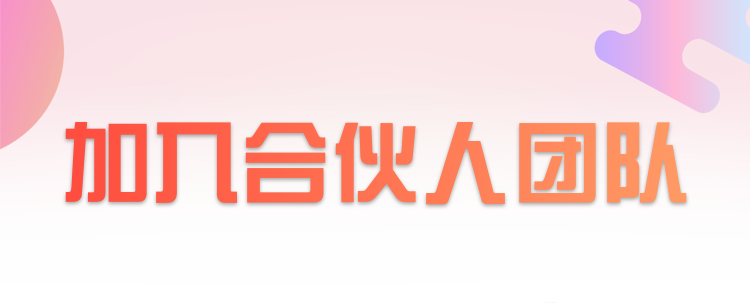
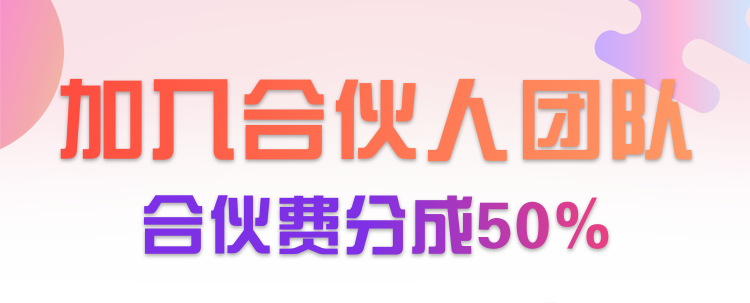
合伙人内容修改合伙费分成50%

Changed region(s): [[0.0613, 0.2376, 0.9507, 0.8614]]

diff --git a/zhixinchain-wap/find-invite-hehuoren.html b/zhixinchain-wap/find-invite-hehuoren.html
@@ -16,14 +16,17 @@
         <div class="component-find-index">
             <div class="yaoqing-c1" style=" display:block;background: url('public/images/find/yaoqing-4.png') center top no-repeat;background-size: 100% 100%;">
                 <div class="outer">
-                    <p class="p-money">
+                    <p style="padding-top: 1.35rem;font-size: 0.14rem;">(11月30日前)</p>
+                    <p class="p-money" style="padding-top: 0.05rem;">
                         立即加入合伙人团队，月入<span>2万元~10万元！</span>
                     </p>
                 </div>
             </div>
             <div class="yaoqing-c1" style="display: none; background: url('public/images/find/yaoqing-1.png') center top no-repeat;background-size: 100% 100%;">
+
                 <div class="outer">
-                    <p class="p-money">
+                    <p style="padding-top: 1.35rem;font-size: 0.14rem;">(11月30日前)</p>
+                    <p class="p-money" style="padding-top: 0.05rem;">
                         邀请好友加入健康保障，<span>获得合伙人收益</span>
                     </p>
                 </div>
@@ -31,7 +34,7 @@
             <div class="yaoqing-c2" >
                 <div style="display:none;">
                     <div class="outer">
-                        <p class="p-id">
+                        <p class="p-id" style="padding-top: 0.55rem;">
                             我的邀请码: <span>{{invite_id}}</span>
                         </p>
                     </div>
@@ -52,7 +55,7 @@
                         <!--</p>-->
                     <!--</div>-->
                     <div class="btn">
-                        <button class="btn-invite" style="width: 2.7rem; margin-top: 0.16rem;">成为个人合伙人</button>
+                        <button class="btn-invite" style="width: 2.7rem; margin-top: 0.55rem;">成为个人合伙人</button>
                     </div>
                 </div>
 
@@ -82,11 +85,11 @@
                 </div>
                 <div class="text-one">
 
-                    <p><strong>3：特权享受：</strong>享10万元半价囤币权。囤货期3个月内可享1~10倍卖出收益。</p>
+                    <p><strong>3：特权享受：</strong>享首次最高10万元半价囤币权。囤货期3个月内可享1~10倍卖出收益。</p>
                 </div>
                 <div class="text-one">
 
-                    <p><strong>4：加入条件：</strong>合伙费：2000元或等值ETH，并全部按市价返还等值ZXT，锁仓期6个月。合伙费不参与分成。2018年9月9日前持币老用户成为合伙人，只需要Dapp持有3万个锁仓6个月的ZXT即可。</p>
+                    <p><strong>4：加入条件：</strong>合伙费：2000元或等值ETH，并全部按市价返还等值ZXT，锁仓期6个月。合伙费分成50%（ 11月30日前 ）。2018年9月9日前持币老用户成为合伙人，只需要Dapp持有3万个锁仓6个月的ZXT即可。</p>
                 </div>
                 <div class="text-one">
 
